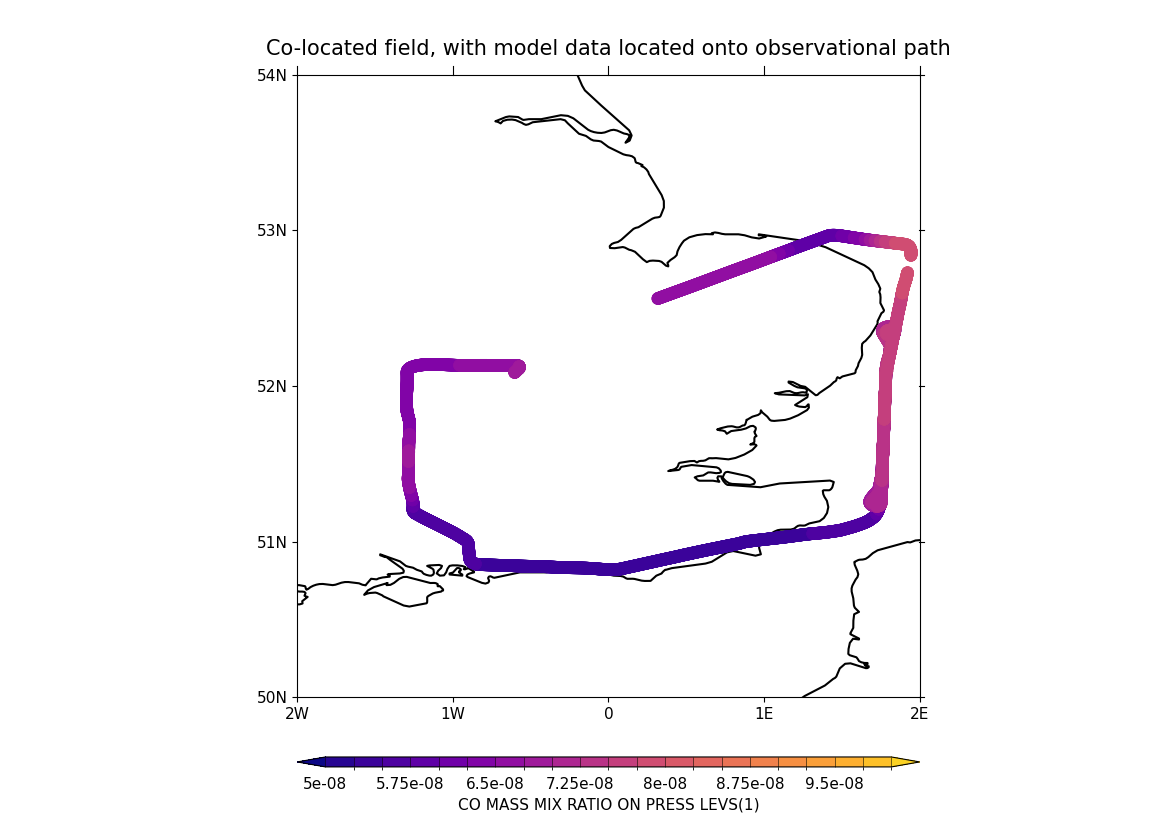
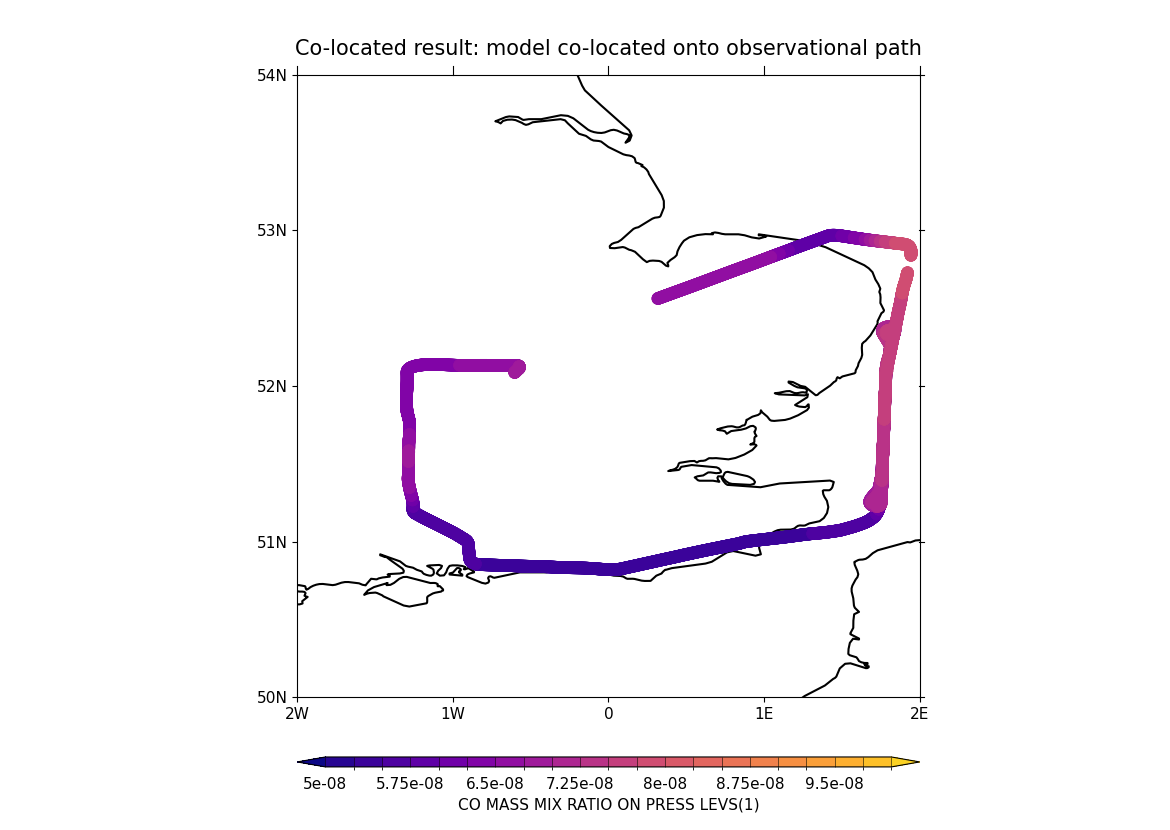
E2E script: crop all comments to max line length

Changed region(s): [[0.2462, 0.0301, 0.8, 0.0904]]

diff --git a/cf-scripts/cf-vision-flight-e2e.py b/cf-scripts/cf-vision-flight-e2e.py
@@ -151,6 +151,7 @@ if VERBOSE:
 # Main functions
 # ----------------------------------------------------------------------------
 
+
 def read_input_data():
     """Read in all input data.
 
@@ -223,7 +224,7 @@ def make_preview_plots(obs_field):
     cfp.cscale(CSCALE)
 
     if SHOW_PLOT_OF_INPUT_OBS:
-        # Plot the *input* observational data for a preview, before doing any work
+        # Plot *input* observational data for a preview, before doing anything
         # Min, max as determined using final_result_field.min(), .max():
         cfp.levs(min=-5, max=55, step=5)
         if PLOT_OF_INPUT_OBS_TRACK_ONLY in (1, 2):
@@ -264,7 +265,7 @@ def make_preview_plots(obs_field):
                 linewidth=0.4,
                 title=(
                     "Observational field input (path, to be used for "
-                    "co-location, with its corresponding data, to be ignored)",
+                    "co-location, with its corresponding data, to be ignored)"
                 ),
             )
             cfp.gclose()
@@ -339,7 +340,8 @@ def ensure_unit_calendar_consistency(obs_field, model_field):
     # TODO what to do if calendar conversion means missing days when need them?
     #      look at Maria's code as to how it is dealt with (e.g. in CIS)
     #
-    # NOTE: in this case, they are the same (gregorian and standard are the same).
+    # NOTE: in this case, they are the same (gregorian and standard are the
+    # same).
     # TODO IGNORE FOR NOW (consistent in this case, but will need to generalise
     # for when they are not).
     model_calendar = model_times.calendar
@@ -371,8 +373,8 @@ def subspace_to_spatiotemporal_bounding_box(obs_field, model_field):
 
     # Prep. towards the BB component subspace.
     # Find the spatial obs. path X-Y-Z boundaries to crop the model field to.
-    #     Note: avoid calling these 'bounds' since that has meaning in CF, so to
-    #           prevent potential ambiguity/confusion.
+    #     Note: avoid calling these 'bounds' since that has meaning in CF, so
+    #           to prevent potential ambiguity/confusion.
 
     # For a DSG, the spatial coordinates will always be auxiliary:
     obs_X = obs_field.auxiliary_coordinate("X")
@@ -385,9 +387,10 @@ def subspace_to_spatiotemporal_bounding_box(obs_field, model_field):
     )
 
     # Prep. towards the temporal BB component.
-    # TODO: are we assuming the model and obs data are strictly increasing, as we
-    # might be assuming for some of this. - > trajectories should be inc'ing with
-    # time with indices getting higher. Otherwise might need to use .sort() etc.
+    # TODO: are we assuming the model and obs data are strictly increasing, as
+    # we might be assuming for some of this. - > trajectories should be
+    # including with time with indices getting higher. Otherwise might need
+    # to use .sort() etc.
     #
     # NOTE: use max and min to account for any missing data even at endpoints,
     #       as opposed to taking the values at first and last position/index.
@@ -399,18 +402,21 @@ def subspace_to_spatiotemporal_bounding_box(obs_field, model_field):
     # Perform the 4D spatio-temporal bounding box to reduce the model data down
     # to only that which is relevant for the calculations on the observational
     # data path in 4D space, that is:
-    #     * a spatial 3D X-Y-Z subspace to spatially bound to those values; plus
-    #     * a time 1D T subspace to bound it in time i.e. cover only relevant times
+    #     * a spatial 3D X-Y-Z subspace to spatially bound to those values;
+    #     * a time 1D T subspace to bound it in time i.e. cover only
+    #       relevant times
 
-    # Note: this requires a 'halo' config. feature introduced in cf-ython 3.16.2.
+    # Note: this requires a 'halo' config. feature introduced in
+    #       cf-python 3.16.2.
     # TODO SLB: need to think about possible compications of cyclicity, etc.,
     #           and account for those.
-    # Note: getting some dask arrays out instead of slices, due to Dask laziness.
-    # DH to look into.
+    # Note: getting some dask arrays out instead of slices, due to Dask
+    # laziness. DH to look into.
 
     # Note: can do the spatial and the temporal subspacing separately, and if
-    # want to do this make the call twice for each coordinate arg. Reasons we may
-    # want to do this include having separate halo sizes for each coordinate, etc.
+    # want to do this make the call twice for each coordinate arg. Reasons we
+    # may want to do this include having separate halo sizes for each
+    # coordinate, etc.
     model_field_bb = model_field.subspace(
         1,  # the halo size that extends the bounding box by 1 in index space
         X=cf.wi(obs_X.data.minimum(), obs_X.data.maximum()),
@@ -447,8 +453,8 @@ def spatial_interpolation(obs_field, model_field_bb):
 
     # Creating the spatial bounding box may have made some of the spatial
     # dimensions singular, which would lead to an error or:
-    #     ValueError: Neither the X nor Y dimensions of the source field <field>
-    #     can be of size 1 for spherical 'linear' regridding.
+    #     ValueError: Neither the X nor Y dimensions of the source field
+    #     <field> can be of size 1 for spherical 'linear' regridding.
     # so we have to account for this.
 
     # Perform the spherical regrid which does the spatial interpolation
@@ -497,8 +503,8 @@ def time_interpolation(
     logger.critical("\n\n\nStarting time interpolation step...\n\n\n")
     time_interp_starttime = time()
 
-    # In our field after spatial interpolation, the Dimension Coord has the model
-    # time data and the Aux Coord has the observational time data
+    # In our field after spatial interpolation, the Dimension Coord has the
+    # model time data and the Aux Coord has the observational time data
     # NOTE: keep these calls in, desite earlier ones probably in-place.
     model_times = spatially_colocated_field.dimension_coordinate("T")
     obs_times = spatially_colocated_field.auxiliary_coordinate("T")
@@ -572,15 +578,15 @@ def time_interpolation(
         values_0 = s0.data.squeeze()
         values_1 = s1.data.squeeze()
 
-        # Calculate the arrays to be used in the weighting calculation.
-        # All arithmetic done numpy-array wise, so no need to iterate over values.
+        # Calculate the arrays to be used in the weighting calculation. All
+        # arithmetic done numpy-array wise, so no need to iterate over values.
         #
         # NOTE: converted to data to get data array not dim coord as output for
         #       weighted values.
         # TODO: take care using keys! We can't rely on keys being consistent
         #       between different fields, so may need to re-determine these at
-        #       different steps, else (ideally) find a robust way not using keys
-        #       to pick out the relevant time constructs.
+        #       different steps, else (ideally) find a robust way not using
+        #       keys to pick out the relevant time constructs.
         # NOTE: All calc. variables are arrays, except this first one,
         #       a scalar (constant whatever the obs time)
         distance_01 = (
@@ -597,7 +603,8 @@ def time_interpolation(
 
         logger.critical(
             "MASKED VALUE COUNTS ARE:\n"
-            f"FOR DISTANCES (0, 1): {distances_0.count()}, {distances_1.count()}\n"
+            "FOR DISTANCES (0, 1): "
+            f"{distances_0.count()}, {distances_1.count()}\n"
             f"FOR WEIGHTS (0, 1): {weights_0.count()}, {weights_1.count()}\n"
             f"FOR VALUES (0, 1): {values_0.count()}, {values_1.count()}"
         )
@@ -615,9 +622,9 @@ def time_interpolation(
     #       when flight lands and takes off etc. on runway and close, cases
     #       relating to the Heaviside function. So it is all good and expected
     #       to have masked values in the data, at the end and/or start.
-    #       Eventually we will add an extrapolation option whereby user can choose
-    #       to extrapolate as well as interpolate, and therefore assign values to
-    #       the masked ones.
+    #       Eventually we will add an extrapolation option whereby user can
+    #       choose to extrapolate as well as interpolate, and therefore assign
+    #       values to the masked ones.
 
     logger.critical("FINAL WEIGHTED VALUES ARE:")
     logger.critical(pformat(v_w))
@@ -633,10 +640,14 @@ def time_interpolation(
         f"WEIGHTED VALS ARE: {concatenated_weighted_values}, WITH LEN: "
         f"{len(concatenated_weighted_values)}"
     )
+    masked_value_count = (
+        len(concatenated_weighted_values)
+        - concatenated_weighted_values.count()
+    )
     logger.critical(
         "NUMBER OF NON-MASKED VALUES IN THIS ARE:\n"
         f"{concatenated_weighted_values.count()} VS MASKED:\n"
-        f"{len(concatenated_weighted_values) - concatenated_weighted_values.count()}"
+        f"{masked_value_count}"
     )
 
     # Finally, reattach that data to (a copy of) the obs field to get final
@@ -665,7 +676,8 @@ def time_interpolation(
     final_result_field.set_property("history", history_details)
 
     logger.critical(
-        f"Final resultant field after data co-location is: {final_result_field}"
+        "Final resultant field after data co-location is: "
+        f"{final_result_field}"
     )
     logger.critical(final_result_field.dump(display=False))
     logger.critical("The final result field has data statistics of:\n")
@@ -691,7 +703,7 @@ def create_cra_outputs():
     of the relevant days sepcified, creating a discrete sampling
     geometry (DSG), specifically a contiguous ragged array, to encompass all
     of these. This is compressed and returned.
-    
+
     TODO: ARGS
     TODO: DETAILED DOCS
     """
@@ -747,8 +759,8 @@ def make_outputs_plots(final_result_field):
     cfp.levs(min=5e-08, max=10e-08, step=0.25e-08)
 
     # Make and open the final plot
-    # NOTE: can try 'legend_lines=True' for the lines plotted with average between
-    #       the two scatter marker points, if preferable?
+    # NOTE: can try 'legend_lines=True' for the lines plotted with average
+    #       between the two scatter marker points, if preferable?
     cfp.gopen(file=f"{OUTPUTS_DIR}/{PLOTNAME_START}_final_colocated_field.png")
     cfp.traj(
         final_result_field,
@@ -756,7 +768,7 @@ def make_outputs_plots(final_result_field):
         legend=True,
         markersize=5,
         linewidth=0.4,
-        title="Co-located field, with model data located onto observational path",
+        title="Co-located result: model co-located onto observational path",
     )
     cfp.gclose()
 
